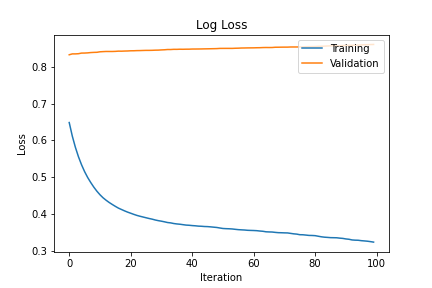
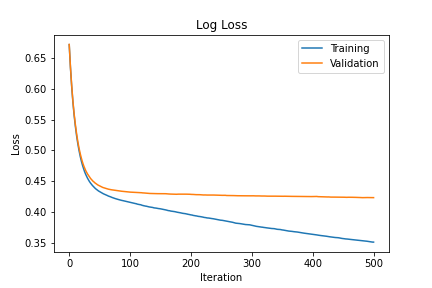
fixed model accuracy and updated scripts

diff --git a/src/xgboost_model.py b/src/xgboost_model.py
@@ -52,14 +52,12 @@ class XGBoostModel:
         self.model.set_params(learning_rate=model_param["learning_rate"],
                               max_depth=model_param["max_depth"],
                               n_estimators=model_param["n_estimators"],
-                              num_parallel_tree=model_param["num_parallel_tree"],
                               gamma=model_param["gamma"],
                               reg_lambda=model_param["lambda"],
                               scale_pos_weight=model_param["scale_pos_weight"],
                               min_child_weight=model_param["min_child_weight"],
                               objective=model_param["objective"],
-                              tree_method=model_param["tree_method"],
-                              verbosity=model_param["verbosity"])
+                              tree_method=model_param["tree_method"])
 
     def fit(self, X_train: np.ndarray, y_train: np.ndarray, X_val: np.ndarray, y_val: np.ndarray, file_path: str, file_name: str):
         """
@@ -88,6 +86,7 @@ class XGBoostModel:
             accuracy = accuracy_score(labels, np.round(preds))
             return 'accuracy', accuracy
 
+        # define save evaluation metrics function
         def save_eval_metrics(file_path: str, file_name: str, result):
             """
             Save the eval_metrics of a model in yaml format
@@ -101,8 +100,7 @@ class XGBoostModel:
                 json.dump(result.evals_result_, f)
 
         # fit the model on the training data and evaluate on validation data
-        result = self.model.fit(X_train, y_train, eval_set=[(
-            X_train, y_train), (X_val, y_val)], eval_metric=accuracy, verbose=0)
+        result = self.model.fit(X_train, y_train, eval_set=[(X_train, y_train), (X_val, y_val)], eval_metric=accuracy, verbose=0)
 
         # save evaluation metrics to file
         save_eval_metrics(file_path, file_name, result)
@@ -119,17 +117,7 @@ class XGBoostModel:
         :param file_name: str, name of the file to save the best results
         :param grid_params: str, dictionary containing the grid search parameters
         """
-        # create an instance of the XGBClassifier
-        self.model = XGBClassifier()
-
-        # create an instance of the GridSearchCV class
-        grid = GridSearchCV(self.model, grid_params, cv=3,
-                            scoring='accuracy', n_jobs=-1, verbose=1)
-
-        # fit the GridSearchCV object on the training data
-        grid = grid.fit(X_train, y_train, eval_set=[
-                        (X_val, y_val)], eval_metric='logloss')
-
+        # define save best parameters function
         def save_best_parameters(file_path: str, file_name: str, grid):
             """
             Save the best parameters and best score of a model in yaml format
@@ -141,6 +129,15 @@ class XGBoostModel:
             with open(os.path.join(file_path, file_name), 'w') as f:
                 # dump the eval_result_ attribute of the result object into the file
                 json.dump(grid.best_params_, f)
+
+        # create an instance of the XGBClassifier
+        self.model = XGBClassifier()
+
+        # create an instance of the GridSearchCV class
+        grid = GridSearchCV(self.model, grid_params, cv=3, scoring='accuracy', n_jobs=-1, verbose=1)
+
+        # fit the GridSearchCV object on the training data
+        grid = grid.fit(X_train, y_train, eval_set=[(X_val, y_val)], eval_metric='logloss')
 
         # save evaluation metrics to file
         save_best_parameters(file_path, file_name, grid)
@@ -165,14 +162,13 @@ class XGBoostModel:
         """
         # extract data from log data
         train_loss = log_data['validation_0']['logloss']
-        train_acc = log_data['validation_1']['logloss']
-        val_loss = log_data['validation_0']['accuracy']
+        val_loss = log_data['validation_1']['logloss']
+        train_acc = log_data['validation_0']['accuracy']
         val_acc = log_data['validation_1']['accuracy']
         iteration = list(range(0, len(train_loss)))
 
         # define column names
-        columns = ['iteration', 'train_loss',
-                   'train_acc', 'val_loss', 'val_acc']
+        columns = ['iteration', 'train_loss', 'train_acc', 'val_loss', 'val_acc']
 
         # create DataFrame from extracted data and column names
         return pd.DataFrame(list(zip(iteration, train_loss, train_acc, val_loss, val_acc)), columns=columns)

diff --git a/main.py b/main.py
@@ -30,7 +30,7 @@ def DataPreparation(plot_mode: bool, play_mode: bool, print_mode: bool, test_mod
     :param plot_mode: bool, a flag indicating whether to plot figures
     :param play_mode: bool, a flag indicating whether to play the audio signals
     :param print_mode: bool, a flag indicating whether to print
-    :param test_mode: bool, a flag indicating whether to run the function in test mode
+    :param test_mode: bool, a flag indicating whether to write and save new data
     :return: None
     """
     # Get path and read meta data file
@@ -42,10 +42,7 @@ def DataPreparation(plot_mode: bool, play_mode: bool, print_mode: bool, test_mod
     df = UT.create_dataframe(data=None, column_names=["gender", "digit"])
 
     # Specify total number of folders in source path
-    if (test_mode == True):
-        num_folders = 2
-    elif (test_mode == False):
-        num_folders = len(next(os.walk(audio_path))[1])+1
+    num_folders = len(next(os.walk(audio_path))[1])+1
 
     # Loop over audio recordings in the source path
     for i in range(1, num_folders):
@@ -153,14 +150,14 @@ def DataEngineering(plot_mode: bool, print_mode: bool):
     # Save data to CSV
     UT.save_df_to_csv(df, file_name="final_data.csv")
 
-def Modelling(plot_mode: bool, print_mode: bool, print_acc_mode: bool, hyperparam_mode: bool):
+def Modelling(plot_mode: bool, print_mode: bool, print_acc_mode: bool, tuning_mode: bool):
     """
     Hyperparameter tuning, model training, prediction and evaluation
 
     :param plot_mode: bool, a flag indicating whether to plot figures
     :param print_mode: bool, a flag indicating whether to print
     :param print_acc_mode: bool, a flag indicating whether to print model accuracy
-    :param model_hyperparam: bool, a flag indicating whether to perform hyperparameter tuning
+    :param tuning_mode: bool, a flag indicating whether to perform hyperparameter tuning
     :return: None
     """
     # Read results path
@@ -191,7 +188,7 @@ def Modelling(plot_mode: bool, print_mode: bool, print_acc_mode: bool, hyperpara
     X_train, y_train, X_val, y_val, X_test, y_test = XM.prepare_data()
 
     # Hyperparameters tuning
-    if (hyperparam_mode == True):
+    if (tuning_mode == True):
         hyperparam_path = SU.hyperparam_path
         model_hyperparam = UT.read_file(hyperparam_path)
         XM.grid_search(X_train, y_train, X_val, y_val, res_path, file_name="best_modeL_param.yaml", grid_params=model_hyperparam)
@@ -238,4 +235,4 @@ if __name__ == "__main__":
     DataEngineering(plot_mode=False, print_mode=False)
 
     # Model training and prediction
-    Modelling(plot_mode=False, print_mode=False, print_acc_mode=True, hyperparam_mode=False)
+    Modelling(plot_mode=False, print_mode=False, print_acc_mode=True, tuning_mode=False)

diff --git a/src/data_visualization.py b/src/data_visualization.py
@@ -58,8 +58,7 @@ class DataVisualization:
         stft_magnitude_db = librosa.power_to_db(stft_magnitude, ref=np.max)
 
         # ise librosa to display the amplitude of the stft data in dB on the y-axis and time on the x-axis
-        librosa.display.specshow(
-            stft_magnitude_db, sr=sr, x_axis='time', y_axis='hz', cmap='inferno')
+        librosa.display.specshow(stft_magnitude_db, sr=sr, x_axis='time', y_axis='hz', cmap='inferno')
 
         # Add a colorbar with dB scale and labels
         plt.colorbar(format='%+2.0f dB')
@@ -164,8 +163,7 @@ class DataVisualization:
         :param plot_name: str, name of the plot to be saved
         """
         # create subplots for each column of the dataframe
-        df.plot.hist(subplots=True, layout=(-1, 3),
-                     sharex=False, figsize=(10, 10))
+        df.plot.hist(subplots=True, layout=(-1, 3), sharex=False, figsize=(10, 10))
 
         # add a title to the plot
         plt.suptitle("Column Distribution")

diff --git a/src/data_split.py b/src/data_split.py
@@ -25,12 +25,10 @@ class DataSplit:
         :return: tuple, containing the training, validation, and test dataframes in that order
         """
         # split the dataframe into a training set and a validation+test set
-        train_df, val_test_df = train_test_split(
-            dataframe, test_size=self.val_size + self.test_size, stratify=dataframe[target_column])
+        train_df, val_test_df = train_test_split(dataframe, test_size=self.val_size+self.test_size, stratify=dataframe[target_column])
 
         # split the validation+test set further into a validation set and a test set
-        val_df, test_df = train_test_split(val_test_df, test_size=self.test_size/(
-            self.val_size+self.test_size), stratify=val_test_df[target_column])
+        val_df, test_df = train_test_split(val_test_df, test_size=self.test_size/(self.val_size+self.test_size), stratify=val_test_df[target_column])
 
         # return data splits
         return train_df, val_df, test_df

diff --git a/src/feature_engineering.py b/src/feature_engineering.py
@@ -24,8 +24,7 @@ class FeatureEngineering:
         df = df.loc[:, df.nunique() > 1]
 
         # list of columns to use for correlation calculation
-        columns_to_use = [
-            col for col in df.columns if col not in columns_to_leave_out]
+        columns_to_use = [col for col in df.columns if col not in columns_to_leave_out]
 
         # calculate correlation matrix for the columns
         return df[columns_to_use].corr(method='pearson')
@@ -39,8 +38,7 @@ class FeatureEngineering:
         :return: pd.DataFrame, DataFrame with constant value columns removed
         """
         # get the columns with constant values
-        constant_columns = [col for col in df.columns if df[col].nunique(
-        ) <= 1 and col not in columns_to_leave_out]
+        constant_columns = [col for col in df.columns if df[col].nunique() <= 1 and col not in columns_to_leave_out]
 
         # remove the constant value columns
         df = df.drop(constant_columns, axis=1)

diff --git a/src/data_processing.py b/src/data_processing.py
@@ -43,7 +43,7 @@ class DataProcessing:
         if len(data) < padding_length:
             # if the data is shorter than the target length, pad the data with zeros
             embedded_data = np.zeros(padding_length)
-            offset = np.random.randint(low=0, high=padding_length - len(data))
+            offset = np.random.randint(low=0, high=padding_length-len(data))
             embedded_data[offset:offset+len(data)] = data
         elif len(data) == padding_length:
             # if the data is already of the target length, no padding is needed

diff --git a/README.md b/README.md
@@ -82,14 +82,12 @@ The model uses the following key parameters:
 - `learning_rate`: The step size of the optimization algorithm
 - `max_depth`: The maximum depth of a tree
 - `n_estimators`: The number of of trees in the ensemble
-- `num_parallel_tree`: Number of parallel trees to be built
 - `gamma`: Minimum split loss
 - `lambda`: Regularization term
 - `scale_pos_weight`: The balance between positive and negative weights
 - `min_child_weight`: Minimum sum of weights of all observations in a child
 - `objective`: Loss function
 - `tree_method`: Method used to grow the tree
-- `verbosity`: Level of verbosity of printing messages
 
 By adjusting these parameters, the model can be fine-tuned to achieve the best performance on the given dataset.
 
@@ -111,6 +109,9 @@ These features include:
 - `cent`: Frequency centroid of the FFT data
 
 These features are stored in a dictionary, where each key corresponds to a specific feature and its associated value. This dictionary can then be used as input for the model.
+
+## Model Performance
+Accuracy on test dataset: `83.27%`.
 
 ## Exectuion
 Run `main.sh` to execute whole pipeline.
